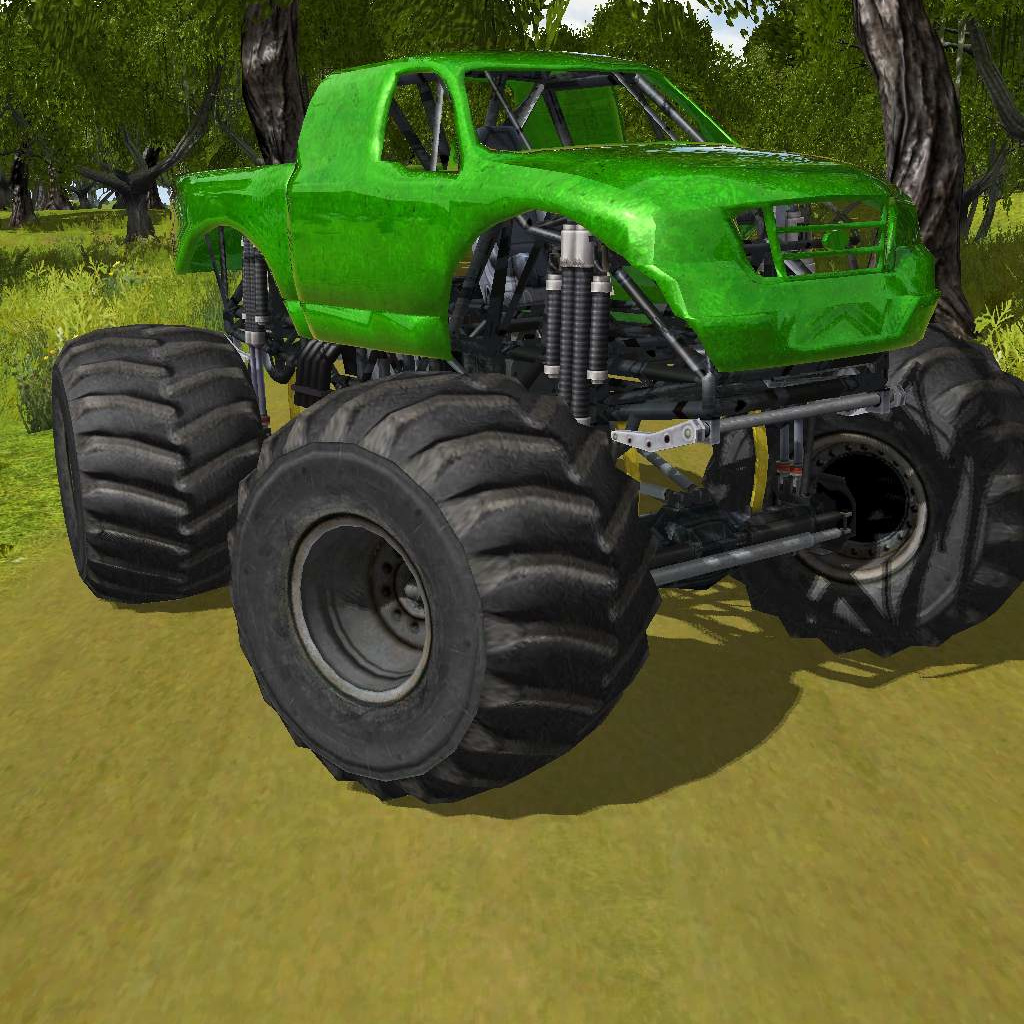
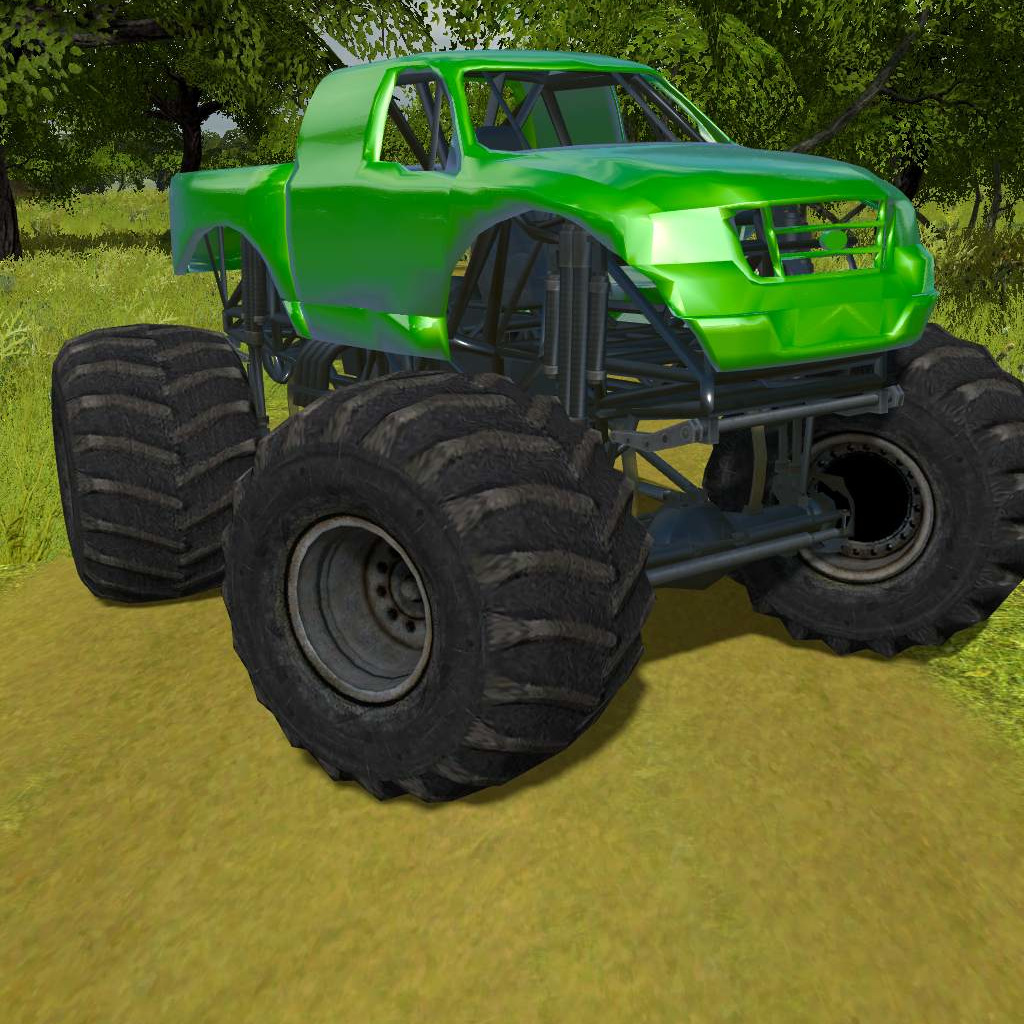
new vehicle previews🌟

diff --git a/src/vdrift/car.cpp b/src/vdrift/car.cpp
@@ -201,8 +201,8 @@ void CAR::HandleInputs(const std::vector <float> & inputs, float dt)
 			steer_value = -inputs[CARINPUT::STEER_LEFT];
 
 		#ifdef CAR_PRV
-		//if (!dynamics.hover && !dynamics.sphere)
-			steer_value = -1.f;
+		if (dynamics.vtype == V_Car)
+			steer_value = -0.5f;
 		#endif
 		dynamics.SetSteering(steer_value, pGame->GetSteerRange());
 		last_steer = steer_value;

diff --git a/docs/Statistics.md b/docs/Statistics.md
@@ -2,7 +2,7 @@
 
 __This table shows all releases with their key counts and is meant for statistics purpose._
 
-Link to calculate [date difference](https://www.timeanddate.com/date/durationresult.html?d1=11&m1=11&y1=2022&d2=6&m2=5&y2=2023).
+Link to calculate [date difference](https://www.timeanddate.com/date/durationresult.html?d1=20&m1=12&y1=2023&d2=6&m2=4&y2=2024).
 
 | Legend                   |     |     | |
 |--------------------------|-----|-----|-|
@@ -17,10 +17,10 @@ Link to calculate [date difference](https://www.timeanddate.com/date/durationres
 
 |Version  | Date   |Days| MB  |g|e |Tracks |new|ren|del| Scn  |New Sceneries  |Vehicles|New Vehicles| Changes               |
 |---------|--------|----|-----|-|--|-------|---|---|---|------|---------------|--------|------------|-----------------------|
-|**3.0.5**|  ?.4'24|>80 |2100?| |3 |**229**| +1|   |   |  41  |               | **30** | R1,R2,R3, Q1,Q3, H1 |                       |
+|**3.0.5**|  ?.4'24|>122|2100?| |3 |**229**| +1|   |   |  41  |               | **31** | R1,R2,R3, Q1,Q3, H1,H2 |           |
 |**3.0.1**|20.12'23| 17 |2100?| |  |**228**|   |   |   |  41  |               |   25   |            |                       |
 |**3.0**  | 3.12'23| 388|2098 |1|--|**228**|+26|153|-2 |  41  |               |   25   |            | OgreNext, PBS, Horizons     |
-|**2.8?** | ?.12'23|>388|2098?| |  |**227**|+25| 7 |-2 |  41  | Marble, Spring, Anomaly, PostApo |   25   |            |          |
+|**2.8?** | ?.12'23|>388|2098?| |  |**227**|+25| 7 |-2 |  41  | Marble, Spring, Anomaly, PostApo |   25   |         |       |
 |         |        |    |     | |  |       |   |   |   |      |               |        |            |                       |
 |**2.7**  |11.11'22|2609|1408 |1|- |**202**|+34|130|-4 |**37**| SurrealSpace, GreeceRocky, Other | **25** | HI, SX, BE, U6, U8, MO, 3B | removed cars: 3S,360,CT,M3,TC6, N1,S1 |
 |**2.6.2**|25.03'22| -  | -   | |  |**172**|   |   |   |  34  |               |   25   |            |                       |

diff --git a/docs/Features.md b/docs/Features.md
@@ -27,15 +27,16 @@ _Todo:_ - means it's not present or not yet fully restored from old SR 2.x
   - over 11 hours to drive all, just once
 - **Stunt** elements: obstacles, jumps, loops, pipes or very twisted road
 - 🌊 Drives through water or mud areas (safe, won't get stuck)
-- 📦 Dynamic objects on tracks (barrels, boxes, etc), can be hit
-- 🚗 30 **Vehicles**
+- 📦 Dynamic objects on tracks (barrels, boxes, etc), can be hit  
+  &nbsp;
+- 🚗 31 **Vehicles**
   - 16 cars (Hyena or Fox are best for rally)
   - few extreme with bigger wheels, or: 6 and 8 wheeled 🚌
   - 2 motorbikes 🏍, one 3 metal balls vehicle
+  - 2 racing hovercrafts
   - 1 bouncy sphere 🔘
-  - 1 racing hovercraft
-  - antigravity hovering:
-    - 3 spaceships 🚀, 2 drones🔹, 3 cars
+  - antigravity hovering:  
+    3 spaceships 🚀, 2 drones🔹, 3 cars
 - 💨 Boost - key to apply rocket boosters to speed up vehicle, works in air and underwater too
 - ⏪ Rewind - hold key to go back in time (after hit or mistake)
 - Simulation modes: Easy (beginner) and Normal
@@ -62,7 +63,7 @@ _Todo:_ - means it's not present or not yet fully restored from old SR 2.x
 - 📃 Detailed list of tracks with:
   - 🖼 preview image and minimap (click to toggle zoom)
   - 📊 stats like: rating, difficulty, length, width, jumps, loops, pipes, obstacles and much more
-  - driveability % estimate for vehicle on track (low means unfit)
+  - Driveability % estimate for vehicle on track (low means unfit)
 - ⏲ Several gauge types (for engine rpm and vehicle speed)
 
 ## Graphics
